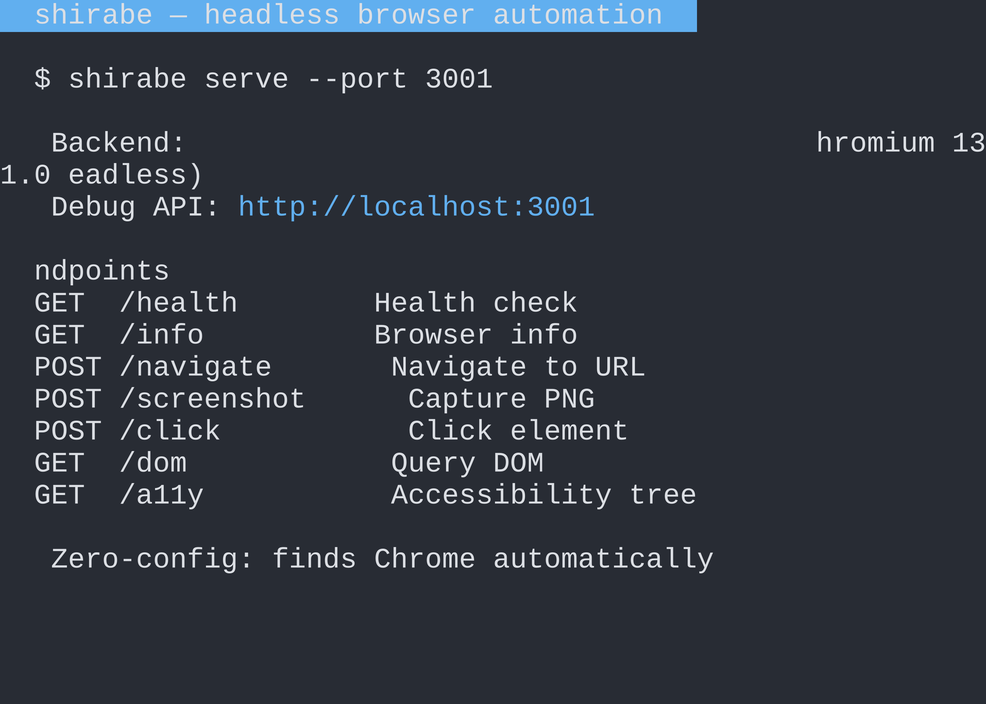
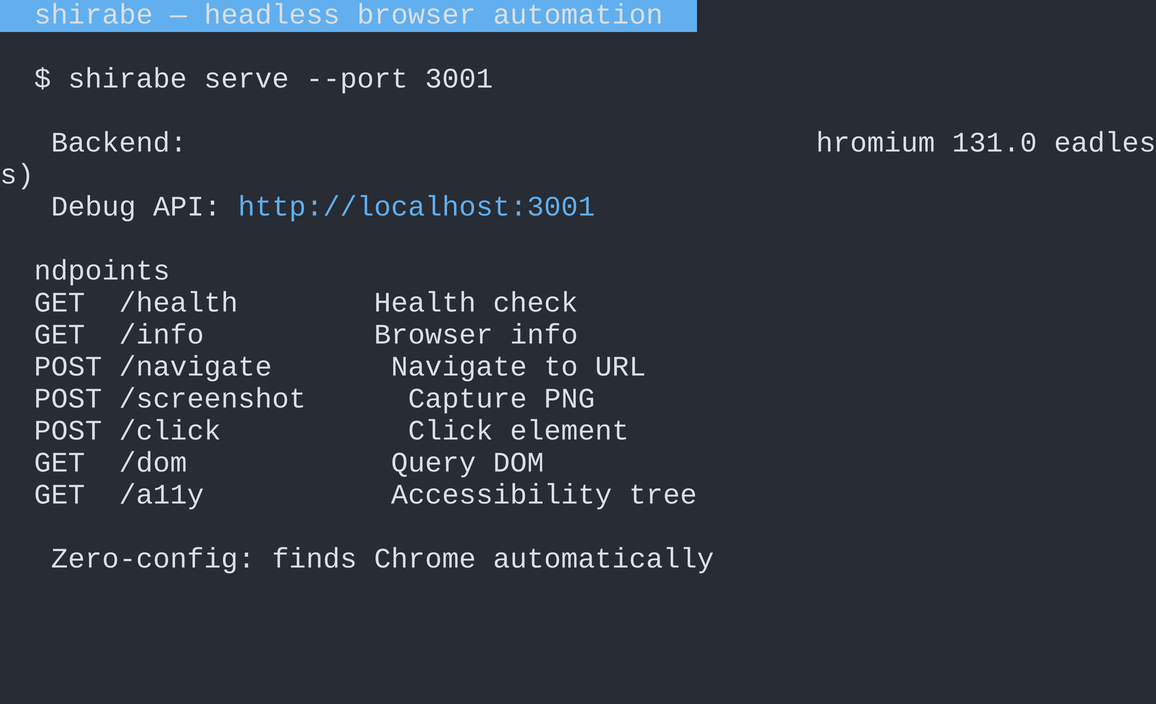
docs: screenshot in quickstart guide + <details> before License
- quickstart.md: added debug_server_solarized_dark.png at the top
- README: <details> section moved before ## License

diff --git a/README.md b/README.md
@@ -161,9 +161,6 @@ SHIRABE_SKIP_BROWSER_FETCH=1 cargo clippy --all-targets --all-features -- -D war
 SHIRABE_SKIP_BROWSER_FETCH=1 cargo test --all-features
 ```
 
-## License
-
-SySL-1.0 (Synthetic Source License). See [LICENSE](./LICENSE).
 
 <details>
 <summary>Screenshots</summary>
@@ -171,3 +168,7 @@ SySL-1.0 (Synthetic Source License). See [LICENSE](./LICENSE).
 <p align="center"><img src="res/debug_server_solarized_dark.png" alt="shirabe snapshot" height="400" /></p>
 
 </details>
+
+## License
+
+SySL-1.0 (Synthetic Source License). See [LICENSE](./LICENSE).

diff --git a/docs/en/guides/quickstart.md b/docs/en/guides/quickstart.md
@@ -1,5 +1,7 @@
 # Quick Start
 
+![Debug server overview](../../../res/debug_server_solarized_dark.png)
+
 ## The CLI
 
 ```bash
